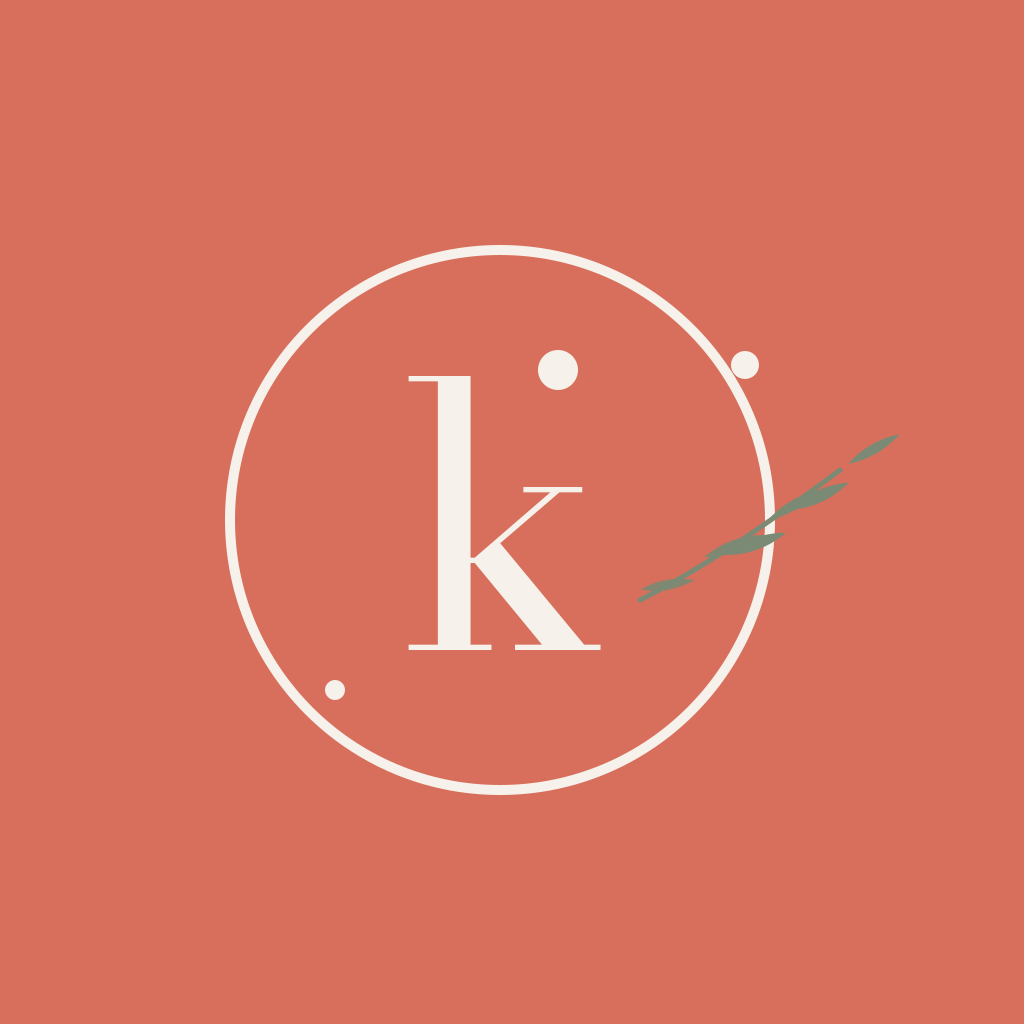
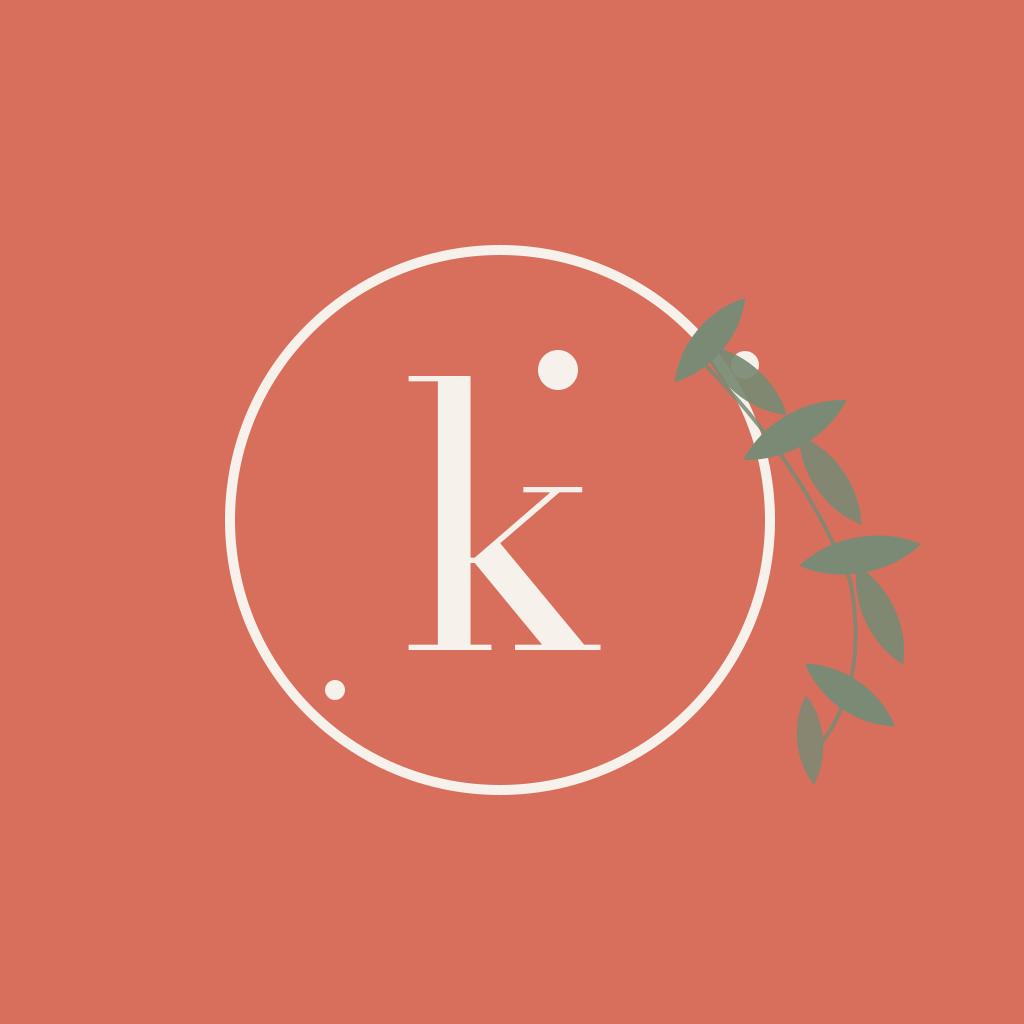
Improve brand mark olive branch (8 pointed leaves, curved stem)
The first pass at the icon and logo SVG had ellipse-blobs for leaves;
the actual brand mark has a proper olive branch with 8 pointed-teardrop
leaves alternating along a curving stem. Updated to match:

- mobile/assets/images/icon.png, adaptive-icon.png, splash-icon.png
  regenerated from the new SVG (1024×1024, no alpha)
- frontend/public/favicon.svg redrawn with the matching ring + leaves
- frontend/src/components/layout/KeepswellLogo.tsx uses the same leaf
  geometry so the header mark, footer mark, and favicon all match

Changed region(s): [[0.625, 0.2812, 0.9062, 0.7812]]

diff --git a/frontend/src/components/layout/KeepswellLogo.tsx b/frontend/src/components/layout/KeepswellLogo.tsx
@@ -1,15 +1,22 @@
-// Reusable Keepswell brand mark: coral ring + serif 'k' + sage leaves.
-// Used in the Header (and anywhere else the small brand mark is needed).
+// Reusable Keepswell brand mark: ring + serif 'k' + sage olive branch.
+// Used in the Header, footer, and anywhere the small brand mark is needed.
 
 interface Props {
   className?: string;
   size?: number;
-  /** When true, swap to filled-coral background variant (matching the iOS app icon). */
+  /** When true, swap to the coral-filled background variant (matching the iOS app icon). */
   filled?: boolean;
 }
 
 export function KeepswellLogo({ className, size, filled = false }: Props) {
   const style = size ? { width: size, height: size } : undefined;
+
+  // Foreground colors for the two variants:
+  //   filled  = cream marks on a coral background tile (matches iOS app icon)
+  //   unfilled = coral ring + slate 'k' on whatever surface (header use)
+  const ringStroke = filled ? '#F6F1EA' : '#D86F5C';
+  const kFill = filled ? '#F6F1EA' : '#3C4858';
+  const dotFill = filled ? '#F6F1EA' : '#D86F5C';
 
   return (
     <svg
@@ -22,20 +29,20 @@ export function KeepswellLogo({ className, size, filled = false }: Props) {
     >
       {filled && <rect width="100" height="100" rx="22" fill="#D86F5C" />}
 
-      {/* Coral ring (or cream if filled) */}
+      {/* Ring */}
       <circle
         cx="48"
         cy="51"
         r="32"
         fill="none"
-        stroke={filled ? '#F6F1EA' : '#D86F5C'}
-        strokeWidth="1.8"
+        stroke={ringStroke}
+        strokeWidth="1.6"
         strokeLinecap="round"
       />
 
-      {/* Accent dots */}
-      <circle cx="78" cy="34" r="2" fill={filled ? '#F6F1EA' : '#D86F5C'} />
-      <circle cx="22" cy="72" r="1.6" fill={filled ? '#F6F1EA' : '#D86F5C'} />
+      {/* Accent dots on ring */}
+      <circle cx="78" cy="34" r="2" fill={dotFill} />
+      <circle cx="22" cy="72" r="1.6" fill={dotFill} />
 
       {/* Serif 'k' */}
       <text
@@ -44,27 +51,50 @@ export function KeepswellLogo({ className, size, filled = false }: Props) {
         fontFamily="Playfair Display, Didot, Georgia, serif"
         fontSize="44"
         fontWeight={500}
-        fill={filled ? '#F6F1EA' : '#3C4858'}
+        fill={kFill}
         textAnchor="middle"
       >
         k
       </text>
 
       {/* Tittle */}
-      <circle cx="55" cy="35" r="2.4" fill={filled ? '#F6F1EA' : '#3C4858'} />
+      <circle cx="55" cy="35" r="2.4" fill={kFill} />
 
-      {/* Sage leaves */}
-      <g fill="#7A8A74">
-        <ellipse cx="76" cy="55" rx="6" ry="2.4" transform="rotate(-25 76 55)" />
-        <ellipse cx="70" cy="60" rx="5" ry="2" transform="rotate(15 70 60)" />
-        <ellipse
-          cx="80"
-          cy="48"
-          rx="5"
-          ry="1.8"
-          transform="rotate(-40 80 48)"
+      {/* Olive branch — curved stem + 8 pointed leaves alternating sides */}
+      <g>
+        <path
+          d="M 72 36 Q 82 46 86 58 Q 89 70 84 78"
+          stroke="#7A8A74"
+          strokeWidth="0.6"
+          fill="none"
+          strokeLinecap="round"
           opacity="0.85"
         />
+        {/* Each leaf: pointed teardrop ~7 wide × 2.2 tall, placed by translate+rotate */}
+        <g transform="translate(72 34) rotate(-50)">
+          <path d="M -3.5 0 Q -2 -1.2 0 -1.2 Q 2 -1.2 3.5 0 Q 2 1.2 0 1.2 Q -2 1.2 -3.5 0 Z" fill="#7A8A74" />
+        </g>
+        <g transform="translate(76 39) rotate(45)">
+          <path d="M -3.5 0 Q -2 -1.2 0 -1.2 Q 2 -1.2 3.5 0 Q 2 1.2 0 1.2 Q -2 1.2 -3.5 0 Z" fill="#7A8A74" opacity="0.9" />
+        </g>
+        <g transform="translate(81 45) rotate(-25)">
+          <path d="M -4 0 Q -2.2 -1.3 0 -1.3 Q 2.2 -1.3 4 0 Q 2.2 1.3 0 1.3 Q -2.2 1.3 -4 0 Z" fill="#7A8A74" />
+        </g>
+        <g transform="translate(83 51) rotate(55)">
+          <path d="M -3.5 0 Q -2 -1.2 0 -1.2 Q 2 -1.2 3.5 0 Q 2 1.2 0 1.2 Q -2 1.2 -3.5 0 Z" fill="#7A8A74" opacity="0.9" />
+        </g>
+        <g transform="translate(86 57) rotate(-10)">
+          <path d="M -4 0 Q -2.2 -1.4 0 -1.4 Q 2.2 -1.4 4 0 Q 2.2 1.4 0 1.4 Q -2.2 1.4 -4 0 Z" fill="#7A8A74" />
+        </g>
+        <g transform="translate(87 64) rotate(60)">
+          <path d="M -3.5 0 Q -2 -1.2 0 -1.2 Q 2 -1.2 3.5 0 Q 2 1.2 0 1.2 Q -2 1.2 -3.5 0 Z" fill="#7A8A74" opacity="0.9" />
+        </g>
+        <g transform="translate(86 72) rotate(35)">
+          <path d="M -3.5 0 Q -2 -1.2 0 -1.2 Q 2 -1.2 3.5 0 Q 2 1.2 0 1.2 Q -2 1.2 -3.5 0 Z" fill="#7A8A74" />
+        </g>
+        <g transform="translate(83 78) rotate(80)">
+          <path d="M -3 0 Q -1.8 -1 0 -1 Q 1.8 -1 3 0 Q 1.8 1 0 1 Q -1.8 1 -3 0 Z" fill="#7A8A74" opacity="0.85" />
+        </g>
       </g>
     </svg>
   );